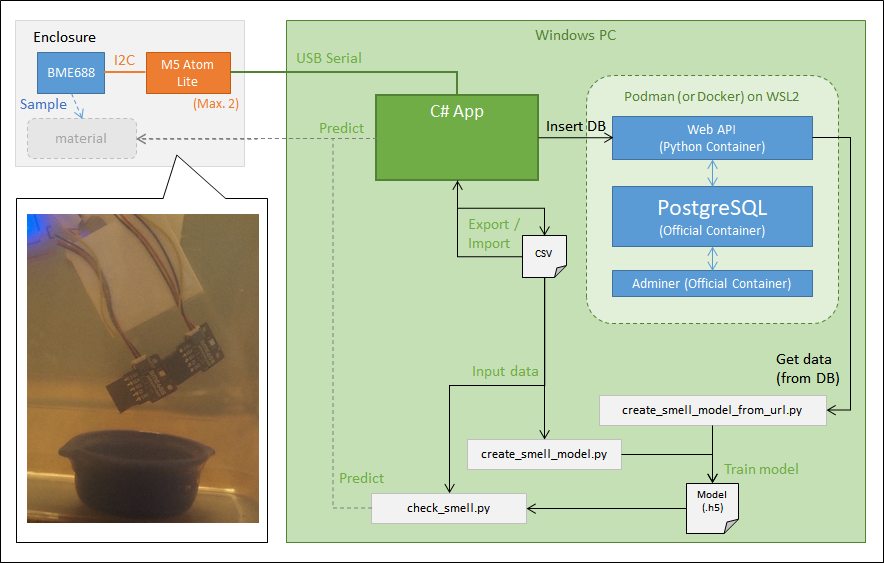
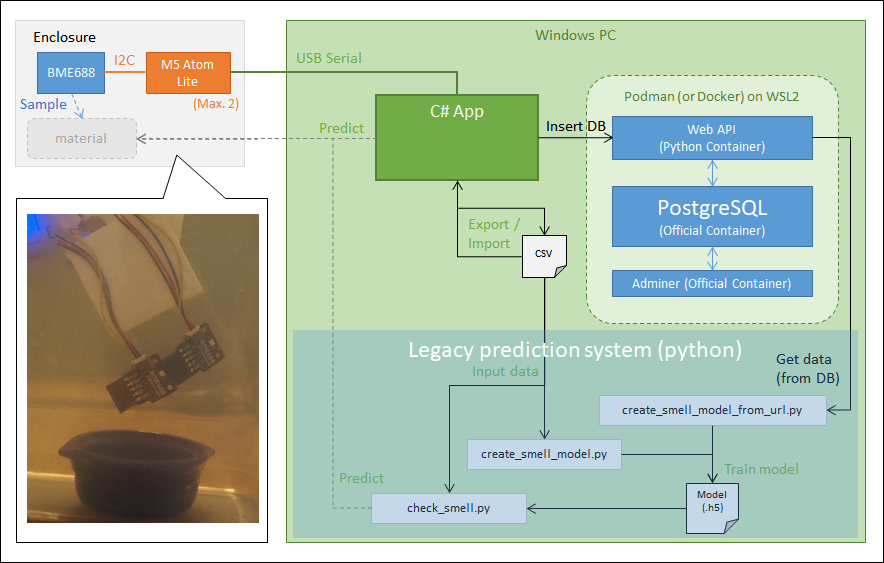
ドキュメントを整理。

Changed region(s): [[0.3054, 0.5737, 0.9774, 0.9663]]

diff --git a/Python_predict.md b/Python_predict.md
@@ -1,0 +1,140 @@
+# Python Script
+
+## 全体像
+
+![Overview](https://github.com/MRSa/SamplingBME688Serial/blob/master/images/python_src.png?raw=true)
+
+- CSV形式のファイルから、LSTMで学習しH5形式のモデルファイルを作成する pythonスクリプト (python/create_smell_model.py)
+- 学習したH5形式のモデルファイルを使って、CSV形式のファイルに記録していたデータの種別を判定する (python/check_smell.py)
+- PostgreSQLに格納されているデータをJSONデータ形式で取り出し、LSTMで学習しH5形式のモデルファイルを作成する pythonスクリプト (python/create_smell_model_from_url.py)
+
+## create_smell_model.py
+
+CSVファイルを読み込み、LSTMで学習させたモデルをH5形式のファイルとしてカレントディレクトリに出力します。
+
+### 使い方
+
+```
+create_smell_model.py [-h] [-e EPOCH] [-i INDEX] csvFile
+```
+
+- csvFile : モデル作成用のCSVファイルを指定します
+- -h : 引数のヘルプを表示します
+- -e 数字 : エポック数 (繰り返し学習回数)を指定します。標準は 500 です。
+- -i 数字 : 収集したステップ数を指定します。標準は 10 です。 combine で出力したCSVファイルを使用するときには 20 を指定してください。
+
+### 出力
+
+学習が終了すると、指定したCSVファイルに対応するモデルファイルと、カテゴリ名ファイルをカレントディレクトリに出力します。
+例えば、CSVファイル名が aaa.csv だった場合は、モデルファイル aaa.h5 と、カテゴリ名ファイル aaa_category.txt という２ファイルを出力します。
+
+### 実行イメージ
+
+```
+$ python3 create_smell_model.py -e 10 for_smell_model.csv
+
+number of epochs : 10
+ Create model: ../for_smell_model.csv -> for_smell_model.h5 (for_smell_model_category.txt) [index:10]
+
+Epoch 1/10
+99/99 [==============================] - 2s 6ms/step - loss: 0.1654
+Epoch 2/10
+99/99 [==============================] - 1s 6ms/step - loss: 0.1412
+Epoch 3/10
+99/99 [==============================] - 1s 6ms/step - loss: 0.1410
+Epoch 4/10
+99/99 [==============================] - 1s 7ms/step - loss: 0.1407
+Epoch 5/10
+99/99 [==============================] - 1s 6ms/step - loss: 0.1404
+Epoch 6/10
+99/99 [==============================] - 1s 6ms/step - loss: 0.1393
+Epoch 7/10
+99/99 [==============================] - 1s 6ms/step - loss: 0.1392
+Epoch 8/10
+99/99 [==============================] - 1s 6ms/step - loss: 0.1390
+Epoch 9/10
+99/99 [==============================] - 1s 6ms/step - loss: 0.1383
+Epoch 10/10
+99/99 [==============================] - 1s 6ms/step - loss: 0.1374
+Model: "sequential"
+_________________________________________________________________
+ Layer (type)                Output Shape              Param #
+=================================================================
+ lstm (LSTM)                 (None, 10)                480
+
+ dense (Dense)               (None, 1)                 11
+
+=================================================================
+Total params: 491
+Trainable params: 491
+Non-trainable params: 0
+_________________________________________________________________
+
+```
+
+## create_smell_model_from_url.py
+
+データベースからセンサデータを読み込み、LSTMで学習させたモデルをH5形式のファイルとしてカレントディレクトリに出力します。
+
+### 使い方
+
+```
+python create_smell_model_from_url.py [-h] [--url URL] [--epoch EPOCH] [--duplicate DUPLICATE] [--offset OFFSET] [--count COUNT] [--sensor SENSOR] [--labels LABELS] modelFile 
+```
+
+- modelFile : 作成するモデルのファイル名を指定します
+- -h           　　　　　　     : 引数のヘルプを表示します
+- --url  URL    　　　　　　   : センサデータを取得するURLを指定します。 未指定時は http://localhost:3010/ です
+- --epoch 数字    　　　　　　 : エポック数 (繰り返し学習回数)を指定します。標準は 500 です。
+- --duplicate 数字 　　　　　　: データを増殖する回数を指定します。未指定時は 1 です。
+- --offset 数字  　　　　　　  : センサデータを取得するとき、何番目のデータから取得するかを指定します。
+- --count  数字               : センサデータを取得する数を指定します。
+- --sensor 数字              : 取得するセンサのID(1または2)を指定します。 未指定時は全てのセンサデータを取得します。
+- --labels カンマ区切り文字列 : 取得するセンサのデータカテゴリを指定します。登録されているモデルデータの一部を指定して学習する場合に指定してください。
+
+### 出力
+
+学習が終了すると、指定したCSVファイルに対応するモデルファイルと、カテゴリ名ファイルをカレントディレクトリに出力します。
+例えば、CSVファイル名が aaa.csv だった場合は、モデルファイル aaa.h5 と、カテゴリ名ファイル aaa_category.txt という２ファイルを出力します。
+
+## check_smell.py
+
+モデルファイルと判定したいCSVファイルを読み込み、判定結果を表示します。
+
+### 使い方
+
+```
+check_smell.py [-h] [-c CATEGORY] [-i INDEX] modelFile csvFile
+```
+
+- modelFile : create_smell_mode.py で作成した モデルファイル名を指定します
+- csvFile : 判定用のCSVファイルを指定します
+- -h : 引数のヘルプを表示します
+- -c ファイル名 : create_smell_mode.py で作成した カテゴリ名ファイルを指定します
+- -i 数字 : 収集したステップ数を指定します。標準は 10 です。 combine で出力したCSVファイルを使用するときには 20 を指定してください。
+
+### 出力
+
+判定用のCSVファイルに記録されているデータから、判定値（数値）と、カテゴリ名ファイルを指定していた場合はそのデータカテゴリを画面表示します。
+
+### 実行イメージ
+
+```
+$ python3 check_smell.py for_smell_model.h5 -c for_smell_model_category.txt for_test2.csv
+
+ - - - - - - CHECK RESULT - - - - - -
+0.862 :  紅茶
+0.831 :  ほうじ茶
+0.814 :  ほうじ茶
+0.801 :  ほうじ茶
+0.793 :  ほうじ茶
+0.788 :  ほうじ茶
+0.786 :  ほうじ茶
+0.785 :  ほうじ茶
+0.779 :  ほうじ茶
+0.775 :  ほうじ茶
+0.777 :  ほうじ茶
+0.775 :  ほうじ茶
+ - - - - - - - - - - - -  - - - - - -
+
+```
